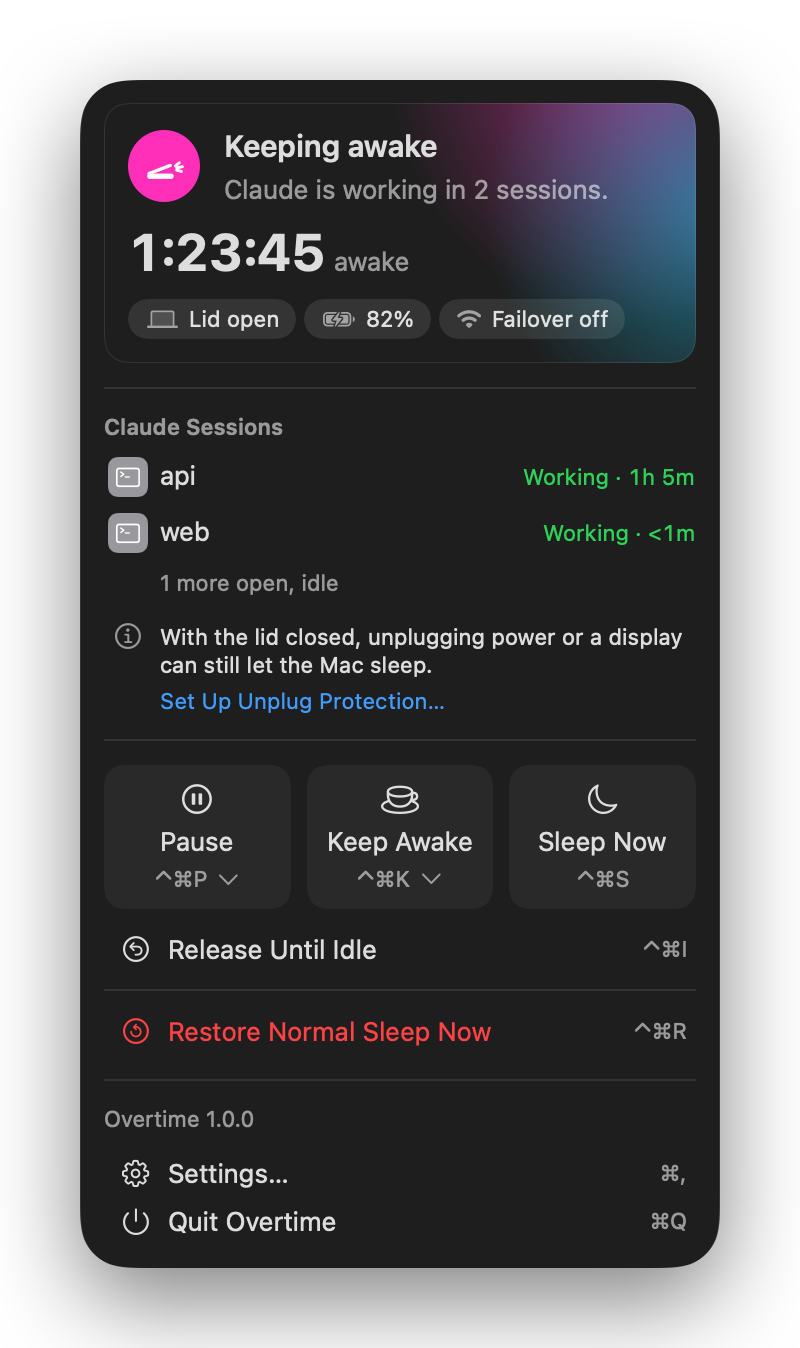
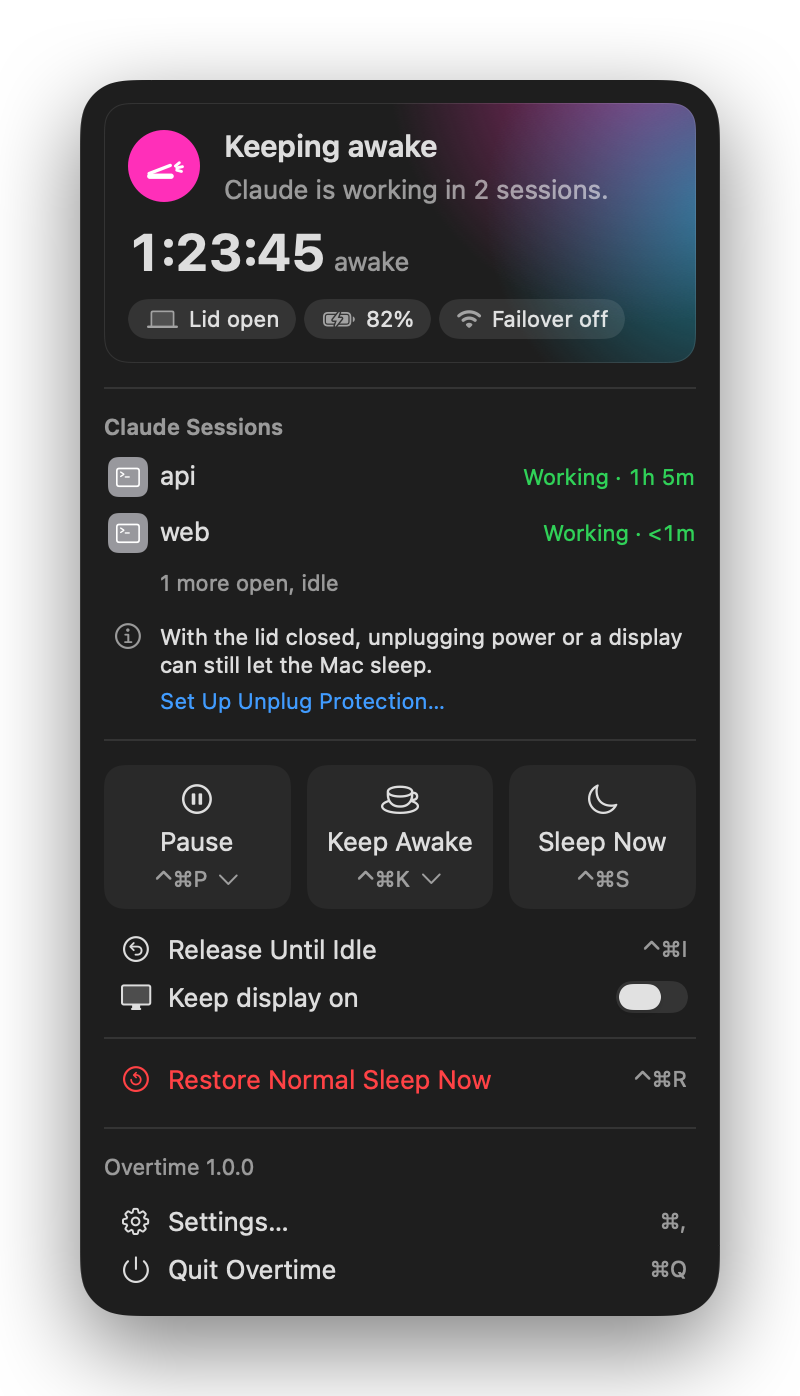
Gate the panel display switch and show it in the README
Source gates pin the switch row's place and shape and keep SettingsModel the only settings writer.
The display symbol is listed and the switch labels keep sentence case.
README, CHANGELOG and the README panel screenshot show the new switch.

diff --git a/Packages/OvertimeRuntime/Tests/OvertimeRuntimeTests/KeepDisplayOnSourceGateTests.swift b/Packages/OvertimeRuntime/Tests/OvertimeRuntimeTests/KeepDisplayOnSourceGateTests.swift
@@ -1,0 +1,206 @@
+import Foundation
+import OvertimeAppSupport
+import Testing
+
+struct KeepDisplayOnSourceGateTests {
+  typealias SourceFile = AppViewSourceGuardTests.SourceFile
+
+  static let controlsFile = "ControlsSection.swift"
+  static let settingsModelFile = "SettingsModel.swift"
+  static let appDelegateFile = "AppDelegate.swift"
+  static let panelModelFile = "PanelModel.swift"
+  static let rowPlacement = "KeepDisplayOnRow(model: model)"
+
+  static let rowCounts: [(needle: String, expected: Int, what: String)] = [
+    (rowPlacement, 1, "places the display switch row"),
+    ("Toggle(", 1, "builds a switch"),
+    (".toggleStyle(.switch)", 1, "styles a switch"),
+    (".controlSize(.mini)", 1, "makes a mini switch"),
+    (".labelsHidden()", 1, "hides the switch's own label"),
+    ("Image(systemName: ControlMapping.keepDisplayOnSymbol)", 1, "draws the display symbol"),
+    ("model.setKeepDisplayOn(", 1, "sends the switch to the panel model"),
+    ("\"" + ControlMapping.keepDisplayOnLabel, 0, "spells the switch label"),
+  ]
+
+  static func rowFindings(in files: [SourceFile]) -> [String] {
+    guard let file = files.first(where: { $0.name == controlsFile }) else {
+      return [AppViewSourceGuardTests.missing(controlsFile)]
+    }
+    var findings: [String] = []
+    for count in rowCounts {
+      let found = AppViewSourceGuardTests.occurrences(of: count.needle, in: file.text)
+      if found != count.expected {
+        findings.append("\(file.name) \(count.what) \(found) times, expected \(count.expected)")
+      }
+    }
+    let squeezed = file.text.filter { !$0.isWhitespace }
+    let release = squeezed.range(of: "ControlMapping.releaseUntilIdleLabel")
+    let row = squeezed.range(of: rowPlacement.filter { !$0.isWhitespace })
+    let restore = squeezed.range(of: "ControlMapping.restoreLabel")
+    let inOrder =
+      if let release, let row, let restore {
+        release.lowerBound < row.lowerBound && row.lowerBound < restore.lowerBound
+      } else {
+        false
+      }
+    if !inOrder {
+      findings.append(
+        "\(file.name) does not place the display switch row between Release Until Idle and Restore Normal Sleep Now")
+    }
+    return findings
+  }
+
+  static func writerFindings(in files: [SourceFile]) -> [String] {
+    var findings: [String] = []
+    for name in [settingsModelFile, appDelegateFile, panelModelFile] where !files.contains(where: { $0.name == name }) {
+      findings.append(AppViewSourceGuardTests.missing(name))
+    }
+    let committers = files.filter { $0.text.contains("SettingsCommitter.commit(") }
+    let commitCount = committers.reduce(0) {
+      $0 + AppViewSourceGuardTests.occurrences(of: "SettingsCommitter.commit(", in: $1.text)
+    }
+    if committers.map(\.name) != [settingsModelFile] || commitCount != 1 {
+      findings.append(
+        "the app sources commit settings in \(committers.map(\.name).joined(separator: ", ")), "
+          + "expected only \(settingsModelFile) once")
+    }
+    let assignments = files.flatMap { file in
+      AppViewSourceGuardTests.lineNumbers(in: file.text) { $0.contains(#/\.keepDisplayOn\s*=(?!=)/#) }
+        .map { (name: file.name, line: $0) }
+    }
+    if assignments.count != 1 || assignments.first?.name != settingsModelFile {
+      let places = assignments.map { "\($0.name):\($0.line)" }.joined(separator: ", ")
+      findings.append("the app sources assign keepDisplayOn in \(places), expected once in \(settingsModelFile)")
+    }
+    if let delegate = files.first(where: { $0.name == appDelegateFile }) {
+      let delegateCounts: [(needle: String, what: String)] = [
+        ("= SettingsModel(", "builds a settings model"),
+        ("model.onSetKeepDisplayOn =", "wires the panel switch"),
+        (".setKeepDisplayOn(", "commits the panel switch through the shared settings model"),
+      ]
+      for count in delegateCounts {
+        let found = AppViewSourceGuardTests.occurrences(of: count.needle, in: delegate.text)
+        if found != 1 {
+          findings.append("\(appDelegateFile) \(count.what) \(found) times, expected 1")
+        }
+      }
+    }
+    if let panel = files.first(where: { $0.name == panelModelFile }), panel.text.contains("SettingsStore.") {
+      findings.append("\(panelModelFile) touches the settings store")
+    }
+    return findings
+  }
+
+  static let plantedRelease = "icon: \"arrow.uturn.backward.circle\", title: ControlMapping.releaseUntilIdleLabel,"
+  static let plantedRow = "KeepDisplayOnRow(model: model)"
+  static let plantedRestore = "icon: \"arrow.counterclockwise.circle\", title: ControlMapping.restoreLabel,"
+  static let plantedToggle =
+    "Toggle(ControlMapping.keepDisplayOnLabel, isOn: Binding(get: { isOn }, set: { setKeepDisplayOn($0) }))"
+  static let plantedCommit = "let result = await SettingsCommitter.commit(candidate, to: settingsFile, host: host)"
+  static let plantedSettingsModel = "let settingsModel = SettingsModel("
+  static let plantedPanelRead = "snapshot?.keepDisplayOn ?? false"
+
+  static func plantedSources() -> [SourceFile] {
+    [
+      AppViewSourceGuardTests.planted(
+        controlsFile,
+        [
+          plantedRelease,
+          plantedRow,
+          plantedRestore,
+          "Image(systemName: ControlMapping.keepDisplayOnSymbol)",
+          plantedToggle,
+          "  .toggleStyle(.switch)",
+          "  .controlSize(.mini)",
+          "  .labelsHidden()",
+          "setKeepDisplayOn: { enabled in Task { await model.setKeepDisplayOn(enabled) } })",
+        ]),
+      AppViewSourceGuardTests.planted(
+        settingsModelFile, [plantedCommit, "candidate.keepDisplayOn = enabled"]),
+      AppViewSourceGuardTests.planted(
+        appDelegateFile,
+        [
+          plantedSettingsModel,
+          "model.onSetKeepDisplayOn = { [weak self] enabled in await self?.commitKeepDisplayOn(enabled) }",
+          "return await settings.setKeepDisplayOn(enabled)",
+        ]),
+      AppViewSourceGuardTests.planted(panelModelFile, [plantedPanelRead]),
+    ]
+  }
+
+  enum Drift: CaseIterable, Sendable {
+    case rowRemoved
+    case rowAfterRestore
+    case secondSwitch
+    case literalLabel
+    case panelModelCommits
+    case secondSettingsModel
+    case secondAssignment
+
+    var file: String {
+      switch self {
+      case .rowRemoved, .rowAfterRestore, .secondSwitch, .literalLabel: KeepDisplayOnSourceGateTests.controlsFile
+      case .panelModelCommits, .secondAssignment: KeepDisplayOnSourceGateTests.panelModelFile
+      case .secondSettingsModel: KeepDisplayOnSourceGateTests.appDelegateFile
+      }
+    }
+
+    var change: (old: String, new: String) {
+      let row = KeepDisplayOnSourceGateTests.plantedRow
+      let restore = KeepDisplayOnSourceGateTests.plantedRestore
+      let toggle = KeepDisplayOnSourceGateTests.plantedToggle
+      let read = KeepDisplayOnSourceGateTests.plantedPanelRead
+      let model = KeepDisplayOnSourceGateTests.plantedSettingsModel
+      return switch self {
+      case .rowRemoved: (row + "\n", "\n")
+      case .rowAfterRestore: (row + "\n" + restore, restore + "\n" + row)
+      case .secondSwitch: (toggle, toggle + "\n" + toggle)
+      case .literalLabel:
+        ("Toggle(ControlMapping.keepDisplayOnLabel,", "Toggle(\"" + ControlMapping.keepDisplayOnLabel + "\",")
+      case .panelModelCommits: (read, read + "\n" + KeepDisplayOnSourceGateTests.plantedCommit)
+      case .secondSettingsModel: (model, model + "\n" + "let other = SettingsModel(")
+      case .secondAssignment: (read, read + "\n" + "settings.keepDisplayOn = enabled")
+      }
+    }
+
+    var phrase: String {
+      switch self {
+      case .rowRemoved: "places the display switch row 0 times, expected 1"
+      case .rowAfterRestore: "does not place the display switch row between"
+      case .secondSwitch: "builds a switch 2 times, expected 1"
+      case .literalLabel: "spells the switch label 1 times, expected 0"
+      case .panelModelCommits: "the app sources commit settings in"
+      case .secondSettingsModel: "AppDelegate.swift builds a settings model 2 times, expected 1"
+      case .secondAssignment: "the app sources assign keepDisplayOn in"
+      }
+    }
+  }
+
+  @Test func theAppSourcesPlaceTheSwitchRowAndKeepOneSettingsWriter() throws {
+    let files = try AppViewSourceGuardTests.appSourceFiles()
+    #expect(files.count > 40)
+    #expect(Self.rowFindings(in: files) == [])
+    #expect(Self.writerFindings(in: files) == [])
+  }
+
+  @Test func theUndriftedPlantedSourcesHaveNoFindings() {
+    let files = Self.plantedSources()
+    #expect(Self.rowFindings(in: files) == [])
+    #expect(Self.writerFindings(in: files) == [])
+    #expect(Self.rowFindings(in: []) == [AppViewSourceGuardTests.missing(Self.controlsFile)])
+  }
+
+  @Test(arguments: Drift.allCases)
+  func aDriftedSourceIsReported(drift: Drift) throws {
+    #expect(Drift.allCases.count == 7)
+    let files = try Self.plantedSources().map { file -> SourceFile in
+      guard file.name == drift.file else { return file }
+      let change = drift.change
+      let range = try #require(file.text.range(of: change.old), "the planted source does not hold \(change.old)")
+      return SourceFile(
+        name: file.name, path: file.path, text: file.text.replacingCharacters(in: range, with: change.new))
+    }
+    let findings = Self.rowFindings(in: files) + Self.writerFindings(in: files)
+    #expect(findings.contains { $0.contains(drift.phrase) }, "\(findings)")
+  }
+}

diff --git a/Tests/OvertimeTests/SymbolAvailabilityTests.swift b/Tests/OvertimeTests/SymbolAvailabilityTests.swift
@@ -13,8 +13,8 @@ struct SymbolAvailabilityTests {
   static let rowSymbols = [
     "battery.0percent", "battery.25percent", "battery.50percent", "battery.75percent", "battery.100percent",
     "battery.100percent.bolt", "checkmark", "wifi", "terminal", "info.circle", "play.circle", "cup.and.saucer",
-    "stop.circle", "arrow.uturn.backward.circle", "arrow.counterclockwise.circle", "circle", "checkmark.circle.fill",
-    "minus.circle.fill", "xmark.circle.fill", "chevron.down",
+    "stop.circle", "arrow.uturn.backward.circle", "arrow.counterclockwise.circle", "display", "circle",
+    "checkmark.circle.fill", "minus.circle.fill", "xmark.circle.fill", "chevron.down",
   ]
 
   static let bodyPointSize: CGFloat = 13
@@ -47,7 +47,12 @@ struct SymbolAvailabilityTests {
   }
 
   @Test func theListCoversEverySymbolInTheUISpec() {
-    #expect(Set(Self.stateSymbols + Self.rowSymbols).count == 30)
+    #expect(Set(Self.stateSymbols + Self.rowSymbols).count == 31)
+  }
+
+  @Test func theDisplaySwitchSymbolIsListed() {
+    #expect(Self.rowSymbols.contains(ControlMapping.keepDisplayOnSymbol))
+    #expect(Set(Self.stateSymbols + Self.rowSymbols).count == 31)
   }
 
   @Test func theMenuTileChevronIsListed() {

diff --git a/Packages/OvertimeRuntime/Tests/OvertimeRuntimeTests/LabelCaseTests.swift b/Packages/OvertimeRuntime/Tests/OvertimeRuntimeTests/LabelCaseTests.swift
@@ -135,4 +135,13 @@ struct LabelCaseTests {
   @Test func theRestoreLabelIsSharedCopy() {
     #expect(ControlMapping.restoreLabel == "Restore Normal Sleep Now")
   }
+
+  @Test func theSwitchLabelsKeepSentenceCase() {
+    let labels = [LoginItemCaption.toggleLabel, ControlMapping.keepDisplayOnLabel]
+    #expect(labels == ["Launch at login", "Keep display on"])
+    for label in labels {
+      #expect(label.first?.isUppercase == true, "\(label)")
+      #expect(!Self.titleCaseFindings(label).isEmpty, "\(label)")
+    }
+  }
 }

diff --git a/README.md b/README.md
@@ -20,7 +20,7 @@
 </div>
 
 <p align="center">
-    <img src="docs/images/panel-holding-dark.png" width="400" alt="The Overtime panel while Claude Code is working: the status card with the indicator circle, the awake time and the lid, battery and network chips, two working sessions, and the Pause, Keep Awake and Sleep Now tiles">
+    <img src="docs/images/panel-holding-dark.png" width="400" alt="The Overtime panel while Claude Code is working: the status card with the indicator circle, the awake time and the lid, battery and network chips, two working sessions, the Pause, Keep Awake and Sleep Now tiles, and the Keep display on switch">
 </p>
 
 Claude Code keeps working when you step away, but your Mac doesn't know that: it idles to sleep, or sleeps the moment you close the lid, and the session stalls. Overtime is a menu bar app that notices when Claude Code is working and keeps the Mac awake while it works. When the work stops, or if Overtime itself fails, the Mac sleeps normally again.
@@ -105,6 +105,7 @@ Click the Overtime icon in the menu bar to open the panel. At the top, a status 
 | Pause | ⌃⌘P | Lets the Mac sleep normally for 15 Minutes, 1 Hour, Until Tomorrow or Until Resumed. While paused, it reads Resume. |
 | Keep Awake | ⌃⌘K | Keeps the Mac awake without Claude for 30 Minutes, 2 Hours or Until Stopped. It still lets go at the battery limit. While it holds, it reads Stop Keeping Awake. |
 | Release Until Idle | ⌃⌘I | Lets go of the current hold while Claude keeps working. Overtime holds again after Claude goes idle and starts working again. |
+| Keep display on | None | Keeps the display on while Claude works. It is the same setting as "Keep display on while Claude works" in Settings > General, and a change in either place shows in the other. |
 | Sleep Now | ⌃⌘S | Puts the Mac to sleep. While Claude works, it asks first: "Claude is working. Sleep anyway?" Choose Sleep Anyway or Keep Working. |
 | Restore Normal Sleep Now | ⌃⌘R | Clears every hold Overtime has set. It is the first step of the [emergency reset](#if-the-mac-wont-sleep). |
 | Settings… | ⌘, | Opens Settings. |
@@ -240,7 +241,7 @@ Overtime warns when it finds another tool that also manages sleep, with a messag
 <details>
 <summary>Does it keep the screen on?</summary>
 
-Not by default. Turn on "Keep display on while Claude works" in Settings > General. With the lid closed and no external display, the display still turns off so the screen locks. An external display is never turned off.
+Not by default. Turn on Keep display on in the menu bar panel, or "Keep display on while Claude works" in Settings > General; both are the same setting. With the lid closed and no external display, the display still turns off so the screen locks. An external display is never turned off.
 
 </details>
 

diff --git a/CHANGELOG.md b/CHANGELOG.md
@@ -2,6 +2,12 @@
 
 All notable changes to Overtime are listed here, in the Keep a Changelog format, and versions follow Semantic Versioning.
 
+## [Unreleased]
+
+### Added
+
+- A Keep display on switch in the menu bar panel. It is the same setting as "Keep display on while Claude works" in Settings > General, and a change in either place shows in the other.
+
 ## [1.0.0] - 2026-10-15
 
 ### Added
